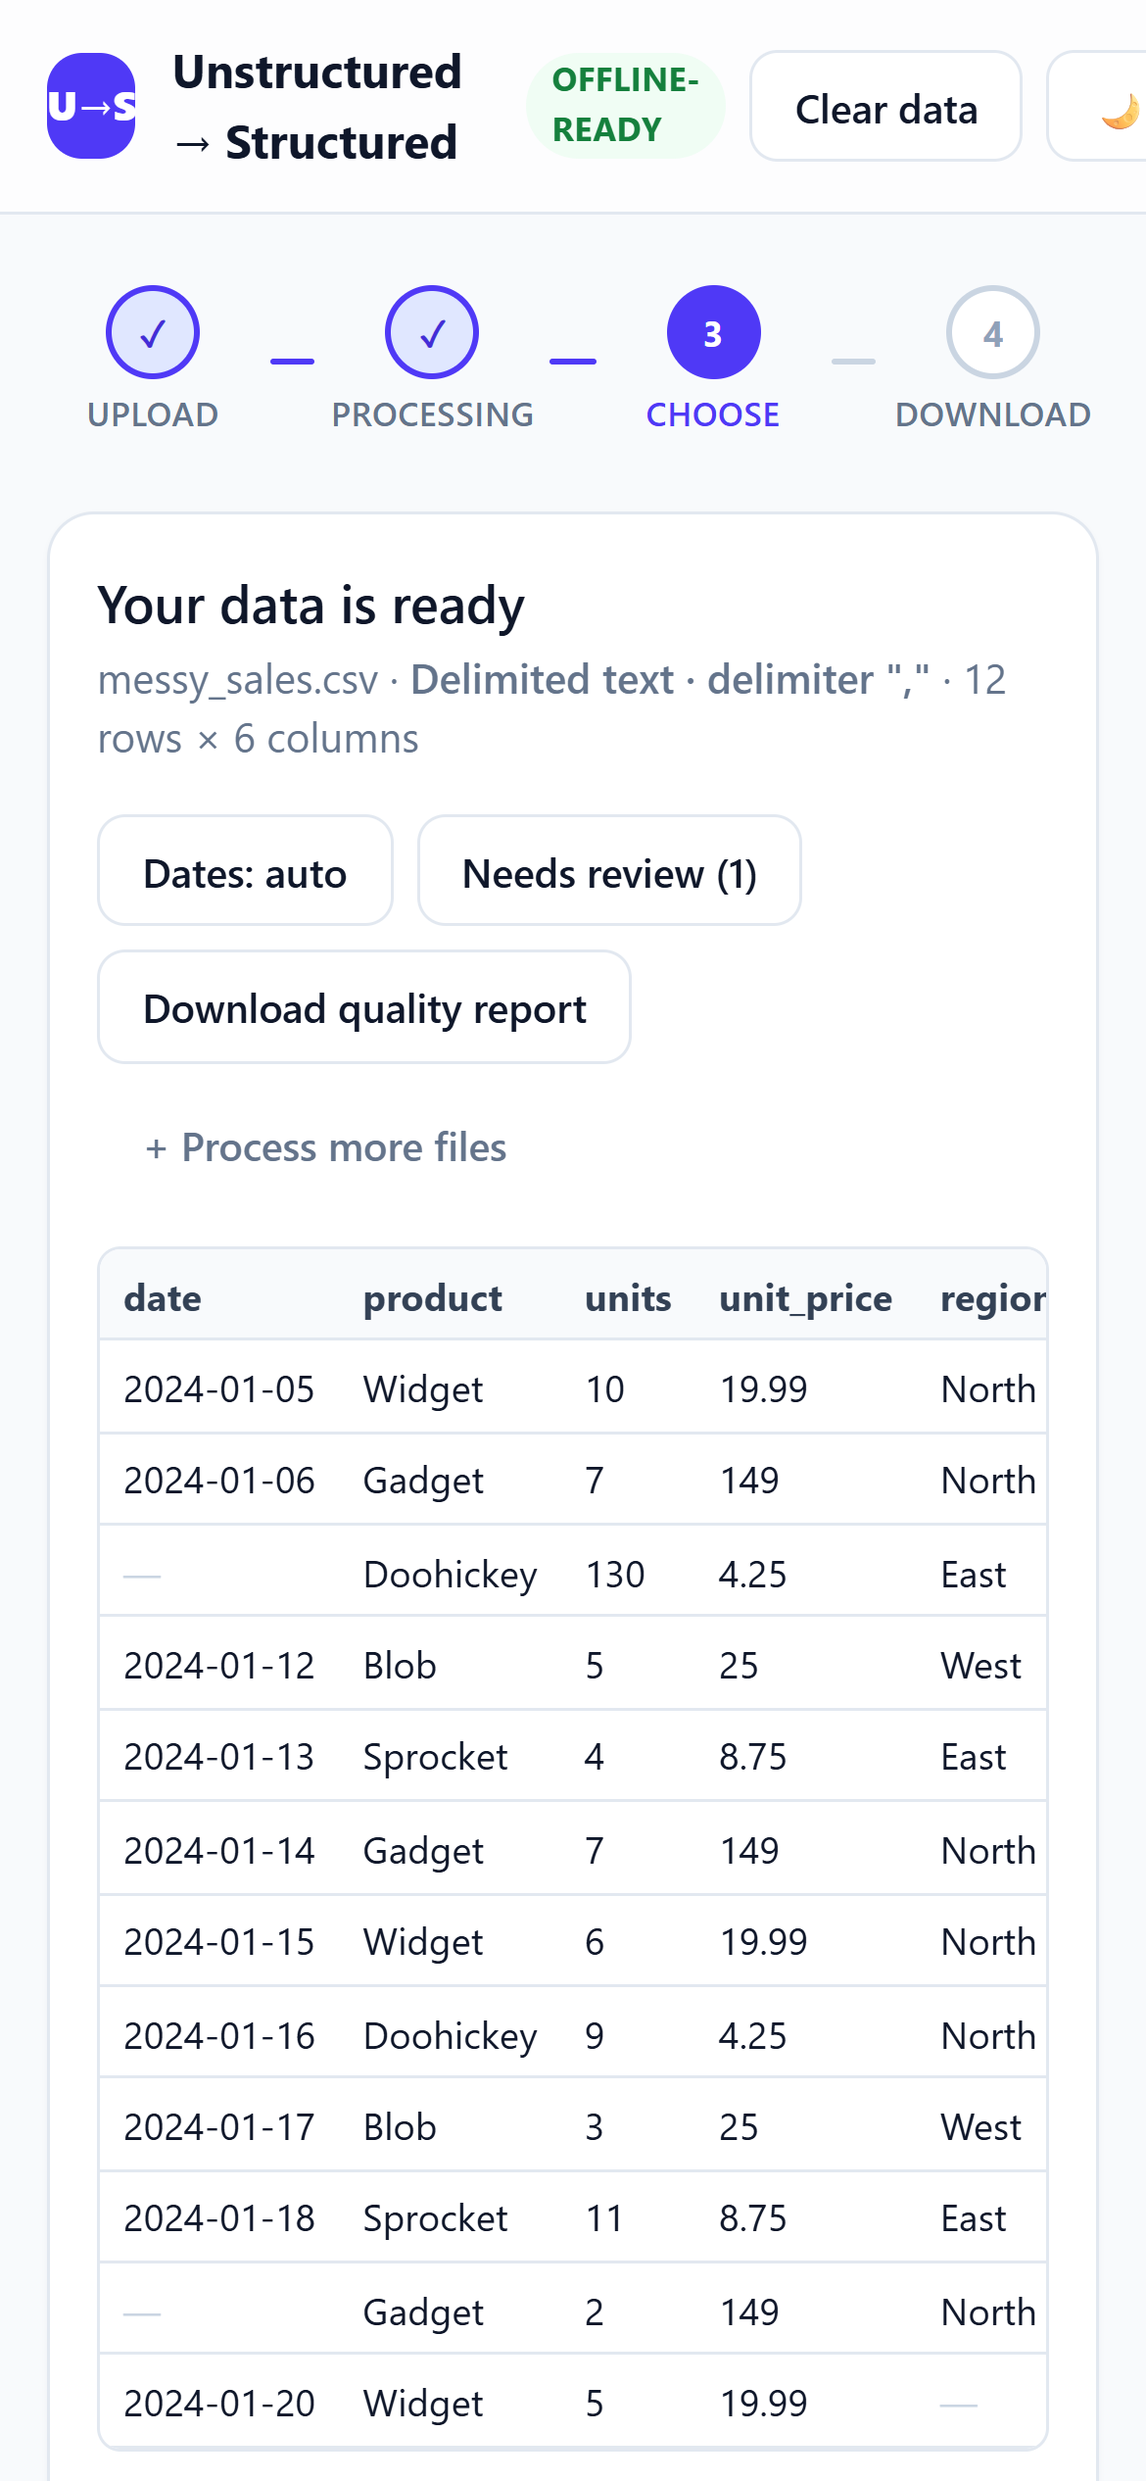
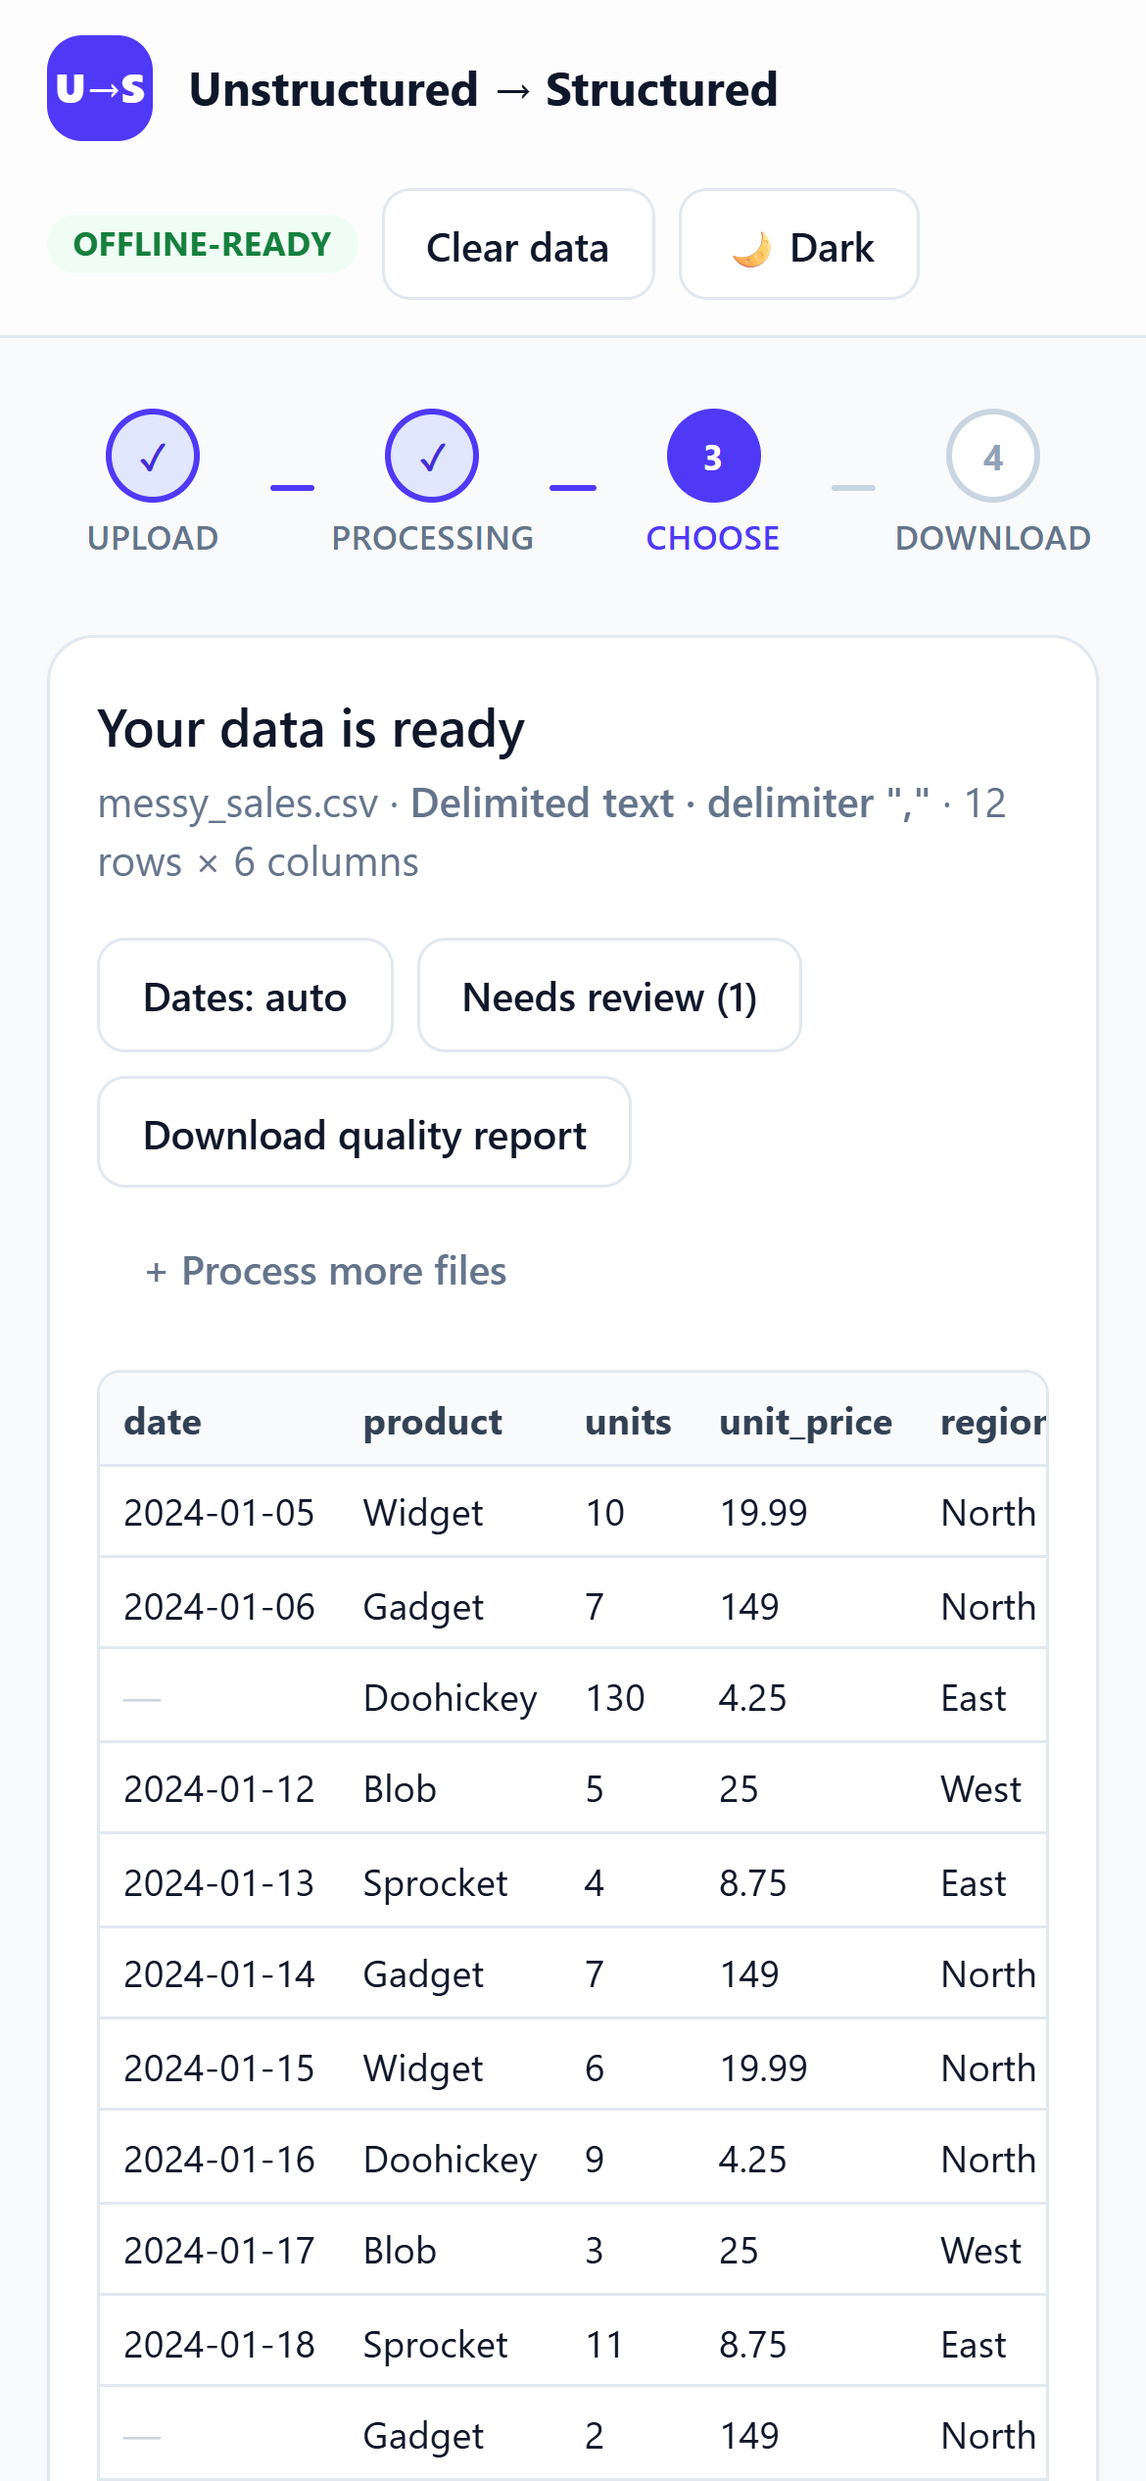
Document the measured audit and gate CI on the live commit
The README now points at the live site, shows the screens and explains how
to check the privacy claim in DevTools; docs/live-audit.md carries every
number from the audit. CI additionally runs the Playwright smoke test
against the deployed URL once its hash matches the pushed commit, so a
regression in the deployed build fails the build that produced it.

diff --git a/docs/live-audit.md b/docs/live-audit.md
@@ -1,0 +1,227 @@
+# Live audit — deployment, privacy, performance
+
+Every number here was measured on **2026-11-04** against
+<https://row-data-converter.vercel.app/> (URL A). Nothing in this file is estimated.
+
+Deployed commit: **`18d5cec`** (`git rev-parse --short HEAD` at the time of the runs).
+
+---
+
+## 1. Green build
+
+| Check | Command | Result |
+| --- | --- | --- |
+| Typecheck (incl. tests) | `npm run typecheck` | exit 0, no output |
+| Lint | `npm run lint` | **0 errors**, 1 warning (`react-hooks/incompatible-library` — TanStack's `useReactTable`, a library limitation, not a defect) |
+| Tests | `npm test` | **8 files, 66 tests passed**, 8.31 s (Node 22 and Node 24) |
+| Build | `npm run build` | exit 0, `dist/` in ~0.7 s |
+| Build fails on a type error | added `src/__typecheck_probe.ts` with `const probe: number = "not a number"` | `src/__typecheck_probe.ts(1,14): error TS2322`, `BUILD_EXIT=1` (probe removed afterwards) |
+
+`engines.node` is `22.x`; Vercel and CI both build on Node 22. Async tests previously hung
+under Node 22 because pdf.js v6 calls `Promise.try`; `tests/setup-polyfills.ts` supplies it,
+which took the suite from 363 s (2 failures) to ~8 s (all green).
+
+## 2. Commits
+
+```
+18d5cec Keep the mobile header inside a 390 px viewport
+766510a Fix DOCX on the deployed build and make 50 MB files usable
+6eea9cf Deployment hardening: CSP, offline shell, Node 22 pin, live-audit harness
+c067f0a Fix CI: track samples/dev/server.log
+```
+
+All pushed to `origin/main` (`https://github.com/HarshPatil0804/RowData-Converter`). The nested
+`RowData-Converter/` clone is gitignored and untracked.
+
+## 3. Build stamp
+
+- `dist/version.json` → `{"hash":"18d5cec","builtAt":"2026-11-04T04:25:42.692Z"}`
+- `<meta name="build" content="18d5cec">` in the built `index.html`
+- Footer renders `build 18d5cec` (see `docs/screens/01-upload-desktop.png`)
+- `curl -I /version.json` → `HTTP/1.1 200`, `Content-Type: application/json; charset=utf-8`,
+  `Cache-Control: no-store`
+
+## 4. Which URL serves which commit
+
+| URL | `/version.json` | Hash equals HEAD |
+| --- | --- | --- |
+| **A** `https://row-data-converter.vercel.app/` | `200` `{"hash":"18d5cec",…}` | **yes** |
+| **B** `https://row-data-converter-28tw.vercel.app/` | `404 DEPLOYMENT_NOT_FOUND` | **no — the domain serves nothing** |
+
+B returned `X-Vercel-Error: DEPLOYMENT_NOT_FOUND` for both `/version.json` and `/` (HTTP 404):
+it was a per-deployment alias that no longer exists. `index.html`'s canonical/og:image URLs
+pointed at B and were corrected to A.
+
+Polling A every 20 s after each push:
+
+```
+push 6eea9cf → 09:16:29 attempt 1: {"hash":"6eea9cf",…}  MATCH
+push 766510a → 09:53:03 attempt 1: {"hash":"6eea9cf",…}
+               09:53:24 attempt 2: {"hash":"766510a",…}  MATCH (40 s)
+push 18d5cec → 09:55:30 attempt 1: {"hash":"766510a",…}
+               09:55:51 attempt 2: {"hash":"18d5cec",…}  MATCH (21 s)
+```
+
+### GitHub side (public API, no token)
+
+- `GET /repos/HarshPatil0804/RowData-Converter/deployments?per_page=3` → `[]` — this repo has
+  **no GitHub Deployment records**; Vercel's Git integration here does not create them.
+- `GET /repos/…/commits/18d5cec…/status` →
+  `state: success`, `context: Vercel`, `description: "Deployment has completed"`,
+  `target_url: https://vercel.com/data-analyst9/row-data-converter/DS6fFgfW8DPAKcBYh8oXPHuakrjs`,
+  `created_at: 2026-11-04T04:25:42Z`.
+
+So the repository is connected: the project is `data-analyst9/row-data-converter`, its
+production alias is A, and the commit status agrees with the served `version.json`.
+
+## 5. Live browser test (Playwright, headless Chrome)
+
+`node e2e/run.mjs --base-url https://row-data-converter.vercel.app --files samples/dev --out e2e-out/live`
+
+21 sample files uploaded, each converted, Tabular → **CSV downloaded**, Pivot → **XLSX
+downloaded**:
+
+| File | Time | Rows |
+| --- | --- | --- |
+| catalog.xml | 498 ms | 4 |
+| config.yaml | 422 ms | 2 |
+| contact_card.rtf | 434 ms | 6 |
+| data_dump.zip | 393 ms | 3 |
+| events.ndjson | 398 ms | 5 |
+| headerless_data.csv | 398 ms | 4 |
+| inventory_table.pdf | 1431 ms | 5 |
+| invoice.eml | 417 ms | 1 |
+| invoices.txt | 455 ms | 6 |
+| legacy.xls | 482 ms | 6 |
+| **meeting_notes.docx** | **389 ms** | 3 |
+| messy_real_orders.csv | 687 ms | 1000 |
+| messy_sales.csv | 424 ms | 12 |
+| nested_customers.json | 403 ms | 4 |
+| orders.tsv | 446 ms | 5 |
+| plain.txt | 436 ms | 3 |
+| products.xlsx | 385 ms | 6 |
+| report.html | 391 ms | 4 |
+| scanned_table.png (OCR) | 4620 ms | 4 |
+| server.log | 403 ms | 10 |
+| app_settings.txt | 4179 ms | 3 |
+
+- Date toggle: `Dates: auto` → pipeline re-run → result in **29 ms**.
+- Dark mode: `false → true` on click.
+- 390 px mobile viewport: conversion ok, **horizontal overflow 0 px**.
+- Console errors **0**, failed requests **0**, 4xx/5xx responses **0**.
+
+### Defect this run found and fixed
+
+`meeting_notes.docx` failed on the live site with
+`Could not read DOCX file: Could not find file in options` even though the test suite was green:
+mammoth's **browser** build reads `options.arrayBuffer`, its **Node** build reads
+`options.buffer`, and the suite only exercises the Node path. `src/pipeline/extract/docx.ts`
+now passes both. Re-verified in a real browser worker (local production build) and then live:
+`Word table · 3 rows × 3 columns`, 389 ms.
+
+## 6. Privacy proof
+
+`node e2e/run.mjs --mode privacy --files samples/dev` — every request after load is recorded
+for one file of each input type, then browser storage is inspected.
+
+| Input | Converted | Requests observed |
+| --- | --- | --- |
+| CSV | 1983 ms | 4 |
+| XLSX | 529 ms | 4 |
+| PDF | 935 ms | 5 |
+| Image (OCR) | 3264 ms | 8 |
+| ZIP | 404 ms | 4 |
+
+- **Cross-origin requests: 0** (all were same-origin; the OCR worker, its wasm core and the
+  language data are served from `/tess/` and `/tessdata/` on the site itself).
+- **File content in storage: 0** findings across `localStorage`, `sessionStorage`, IndexedDB
+  and the Cache API. The only cache entries are the service worker's own app-shell assets
+  (`/`, `/assets/…`, `/sw.js`, `/tess/…`, `/tessdata/…`).
+- Console errors 0, failed requests 0.
+
+### Headers served by A
+
+```
+Content-Security-Policy: default-src 'self'; base-uri 'self'; object-src 'none';
+  frame-ancestors 'none'; script-src 'self' 'wasm-unsafe-eval' 'sha256-r7yILH7…';
+  worker-src 'self' blob:; style-src 'self' 'unsafe-inline'; img-src 'self' data: blob:;
+  font-src 'self' data:; media-src 'self' blob: data:; connect-src 'self'; manifest-src 'self'
+Referrer-Policy: no-referrer
+X-Content-Type-Options: nosniff
+X-Frame-Options: DENY
+Permissions-Policy: camera=(), microphone=(), geolocation=(), payment=(), usb=(),
+  magnetometer=(), gyroscope=()
+```
+
+Every feature was re-exercised under the CSP — all five input types, both downloads, the date
+toggle, dark mode — with the results above (0 console errors, 0 failed requests). A CSP that
+breaks a feature would show up as a console error or a failed request in this run.
+
+`Clear data` (header) empties `localStorage`, `sessionStorage`, IndexedDB and the Cache API and
+returns to the upload screen; measured `caches: 1 → 0`, no console errors.
+
+## 7. Performance
+
+50 MB / 500,000-row / 8-column CSV (`e2e-out/perf-50mb.csv`, 52.6 MB):
+
+| Metric | Before | After | On the live site |
+| --- | --- | --- | --- |
+| Wall time to result | 95,670 ms | 92,931 ms | **81,805 ms** |
+| Longest main-thread task | **431 ms** | **67 ms** | **63 ms** |
+| Tasks over 200 ms | **2** | **0** | **0** |
+| Peak JS heap | 179 MB | 134 MB | 135 MB |
+| Rows × columns | 500,000 × 8 | 500,000 × 8 | 500,000 × 8 |
+
+Three changes took the long tasks out of the main thread:
+
+1. The preview card computed a **full pivot of every row** just to print three axis labels
+   (`computePivot` was discarded). Only `suggestPivot` runs now.
+2. Rows come back from the worker in **50,000-row slices** instead of one message, so the
+   structured-clone cost no longer lands as a single task.
+3. The source `File` is re-read on demand instead of being copied up front, removing a
+   synchronous 52 MB `slice(0)` and half the peak heap.
+
+First-load JavaScript (gzipped, measured with `zlib.gzipSync` over `dist/`):
+
+| Asset | Raw | Gzip | Loaded |
+| --- | --- | --- | --- |
+| `index-*.js` | 648.8 kB | **198.8 kB** | first load |
+| `index-*.css` | 31.7 kB | 7.0 kB | first load |
+| `index.html` | 3.0 kB | 1.1 kB | first load |
+| `pipeline.worker-*.js` | 1,265.6 kB | 389.1 kB | first conversion only |
+| `pdf.worker.min-*.mjs` | 1,264.3 kB | 367.7 kB | first PDF only |
+
+First-load JS is **198.8 kB gzipped** (budget 300 kB). The parsers were already worker-only
+chunks created on demand — no change was needed, and the numbers above are the measured
+before/after state rather than an improvement claim.
+
+Guard rails added for files the browser cannot finish in reasonable time:
+
+- **Cancel** during processing disposes the worker and returns to upload (verified: processing →
+  upload, 0 console errors).
+- A per-file limit of 200 MB with a readable message
+  (“is too large (X MB; this browser build handles up to 200 MB per file). Split it…”).
+
+Lighthouse 12 (desktop preset, headless Chrome, 2026-11-04):
+
+| Category | Score | Target |
+| --- | --- | --- |
+| Performance | **100** | 90+ |
+| Accessibility | **98** | 95+ |
+| Best practices | **100** | 95+ |
+| SEO | **92** | 90+ |
+
+FCP 0.4 s · LCP 0.4 s · TBT 0 ms · CLS 0.
+
+## 8. Sharing, docs, CI
+
+- `index.html`: `og:title`, `og:description`, `og:image` (1200×630, `public/og.png`),
+  `og:image:width/height`, `twitter:card` (`summary_large_image`), `twitter:title/description/image`,
+  `canonical`, an SVG favicon, `theme-color`, and a `<noscript>` fallback.
+- `docs/screens/`: 9 PNGs (desktop upload/preview/tabular/needs-review/pivot/dark, mobile
+  upload/preview/tabular), captured from the live site by `e2e/screens.mjs`.
+- `.github/workflows/ci.yml`: on push/PR — `npm ci`, `lint`, `typecheck`, `vitest`, `build`, a
+  build-stamp check (`dist/version.json` + `<meta name="build">`); then, when the repository
+  variable `LIVE_URL` is set, a job that polls the live `/version.json` for 10 minutes and
+  **fails if it does not equal the pushed commit**, followed by a Playwright smoke test against
+  the deployed URL (`--limit 3`, fails on any console error or failed request).

diff --git a/README.md b/README.md
@@ -10,6 +10,33 @@ client-side JavaScript and WebAssembly.
 > **No backend.** No servers, no API routes, no database. The build output is a folder of
 > static files that runs from GitHub Pages, Netlify, S3, or `file://`.
 
+**Live site:** <https://row-data-converter.vercel.app/> · the footer shows `build <git short
+hash>` and `/version.json` returns the same hash with `Cache-Control: no-store`, so you can
+always tell which commit is being served.
+
+---
+
+## Screens
+
+| Upload | Preview → choose |
+| --- | --- |
+| ![Upload](docs/screens/01-upload-desktop.png) | ![Preview](docs/screens/02-preview-desktop.png) |
+
+| Tabular | Pivot table |
+| --- | --- |
+| ![Tabular](docs/screens/03-tabular-desktop.png) | ![Pivot](docs/screens/05-pivot-desktop.png) |
+
+| Needs review | Dark mode |
+| --- | --- |
+| ![Needs review](docs/screens/04-needs-review-desktop.png) | ![Dark mode](docs/screens/06-tabular-dark-desktop.png) |
+
+| Mobile upload (390 px) | Mobile tabular |
+| --- | --- |
+| ![Mobile upload](docs/screens/07-upload-mobile.png) | ![Mobile tabular](docs/screens/09-tabular-mobile.png) |
+
+All screenshots are captured from the live site by `node e2e/screens.mjs`; that script also
+writes the 1200×630 social card at `public/og.png`.
+
 ---
 
 ## Supported inputs
@@ -104,6 +131,11 @@ Every rule is generic — no column name is ever special-cased.
 | **R9 Logic flags** | Flag only, never delete: `fee_on_cancelled_or_noshow`, `scheduled_in_past` (vs the export date), `paid_without_fee`, `age_missing`. |
 | **R10 Reconciliation** | When the file has a total line, its value is compared with the sum of the parsed numeric column. Both numbers and the difference appear in the Quality Report (and its CSV/JSON download). |
 
+The pipeline also carries later rules (R11–R18) for spelled-out numbers, multi-item cells,
+overlapping categories and blank-row handling; `src/pipeline/rules.ts` is the source of truth.
+
+> Rules R1–R10 are described below; the later ones are additive and never delete rows.
+
 The **Needs review** tab lists every row carrying a flag — ambiguous dates, future dates, id
 conflicts, logic flags, system notes — with a per-flag filter. It is a review queue: the clean
 data itself is unchanged.
@@ -151,7 +183,7 @@ Downloads are generated entirely in the browser with `Blob` + `URL.createObjectU
 npm test
 ```
 
-Six suites, 62 tests:
+Eight suites, 66 tests:
 
 | Suite | Covers |
 | --- | --- |
@@ -161,7 +193,16 @@ Six suites, 62 tests:
 | `tests/pivot.test.ts` | Auto-suggestion and all five aggregations |
 | `tests/export.test.ts` | CSV / JSON / XLSX round-trips through real parsers |
 | `tests/offline.test.ts` | No external origins in source or in the built entry HTML |
+| `tests/fuzz/accuracy.test.ts` | Randomised datasets through a generator/injector harness: parse what was injected, clean what was dirtied, without over-cleaning what was already clean |
+| `tests/fuzz/smoke.test.ts` | The fuzz entries themselves stay tractable |
 | `tests/helpers.ts` | Shared sample-loading fixtures |
+
+Correctness is not judged by eyeballing output. The hospital suite pins exact numbers from a
+real messy export, and the fuzz suite builds datasets from a known-clean source, injects the
+kinds of damage real exports contain (junk rows, mixed date orders, currency noise, packed
+cells, duplicates, casing variants), then asserts that every cell that was *not* damaged is
+preserved and every cell that *was* is recovered. A rule that fixes one case by breaking
+another fails there.
 
 ### The hospital regression sample
 
@@ -203,6 +244,23 @@ npm run build
 The output is a self-contained static site in `dist/`. Vite is configured with
 `base: './'`, so the app works from any sub-path (e.g. GitHub Pages project sites).
 
+### Vercel
+
+The live site deploys from `main` with `vercel.json`:
+
+- **Build command:** `npm run build` · **Output:** `dist` · **Node:** 22 (`engines.node`)
+- SPA fallback rewrite to `/index.html`, except `/version.json`, `/sw.js`, `/assets/`, `/tess/`,
+  `/tessdata/`
+- `/version.json` served as JSON with `Cache-Control: no-store`
+- CSP (`default-src 'self'`), `Referrer-Policy: no-referrer`, `X-Content-Type-Options: nosniff`,
+  `X-Frame-Options: DENY`, and a `Permissions-Policy` that denies camera, microphone and
+  geolocation
+
+The build stamps itself: Vite injects the git short hash and ISO timestamp, writes
+`dist/version.json`, and adds `<meta name="build">`. After a push, CI polls the live
+`/version.json` and **fails if its hash is not the commit that was just built** — so a stale or
+un-connected deployment cannot pass silently.
+
 ### Netlify
 
 - **Build command:** `npm run build`
@@ -229,6 +287,22 @@ Any other static host works the same way: publish `dist/`, no server required.
   vendored into `public/`, not loaded from a CDN. `npm test` asserts this.
 - The only script that touches the network is `scripts/fetch-ocr-data.mjs`, which runs at
   setup time to restore language data.
+- **Clear data** in the header drops the loaded results and empties `localStorage`,
+  `sessionStorage`, IndexedDB and the Cache API. Only the light/dark preference is kept.
+
+### Verify the privacy claim yourself
+
+1. Open the live site, then DevTools → **Network**, and clear the list.
+2. Convert anything — CSV, XLSX, PDF, an image, a ZIP.
+3. Filter the list by **Fetch/XHR** and by **Other** (workers, wasm). Every request is
+   same-origin (`row-data-converter.vercel.app`); none carries file bytes. A cross-origin
+   request would be visible as a different domain in the *Domain* column.
+4. DevTools → **Application** → *Local Storage*, *Session Storage*, *IndexedDB*,
+   *Cache Storage*: nothing but the theme key and the service worker's own app-shell assets.
+
+This is measured, not asserted: `node e2e/run.mjs --mode privacy` converts one file of each
+input type and fails the run on any cross-origin request or any non-asset entry in browser
+storage. The latest run is recorded in `docs/live-audit.md`.
 
 ---
 
